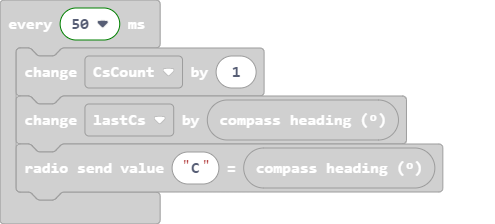
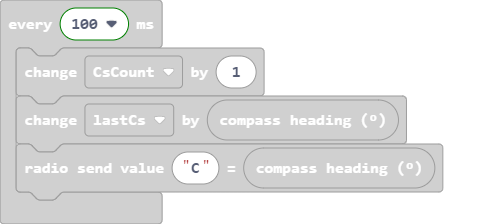
Compass - RadioSender v0.1

Changed region(s): [[0.1212, 0.0, 0.3333, 0.2188], [0.303, 0.8438, 0.3333, 1.0]]

diff --git a/main.ts b/main.ts
@@ -23,7 +23,7 @@ loops.everyInterval(1000, function () {
     CsCount = 0
     lastCs = 0
 })
-loops.everyInterval(50, function () {
+loops.everyInterval(100, function () {
     CsCount += 1
     lastCs += input.compassHeading()
     radio.sendValue("C", input.compassHeading())
